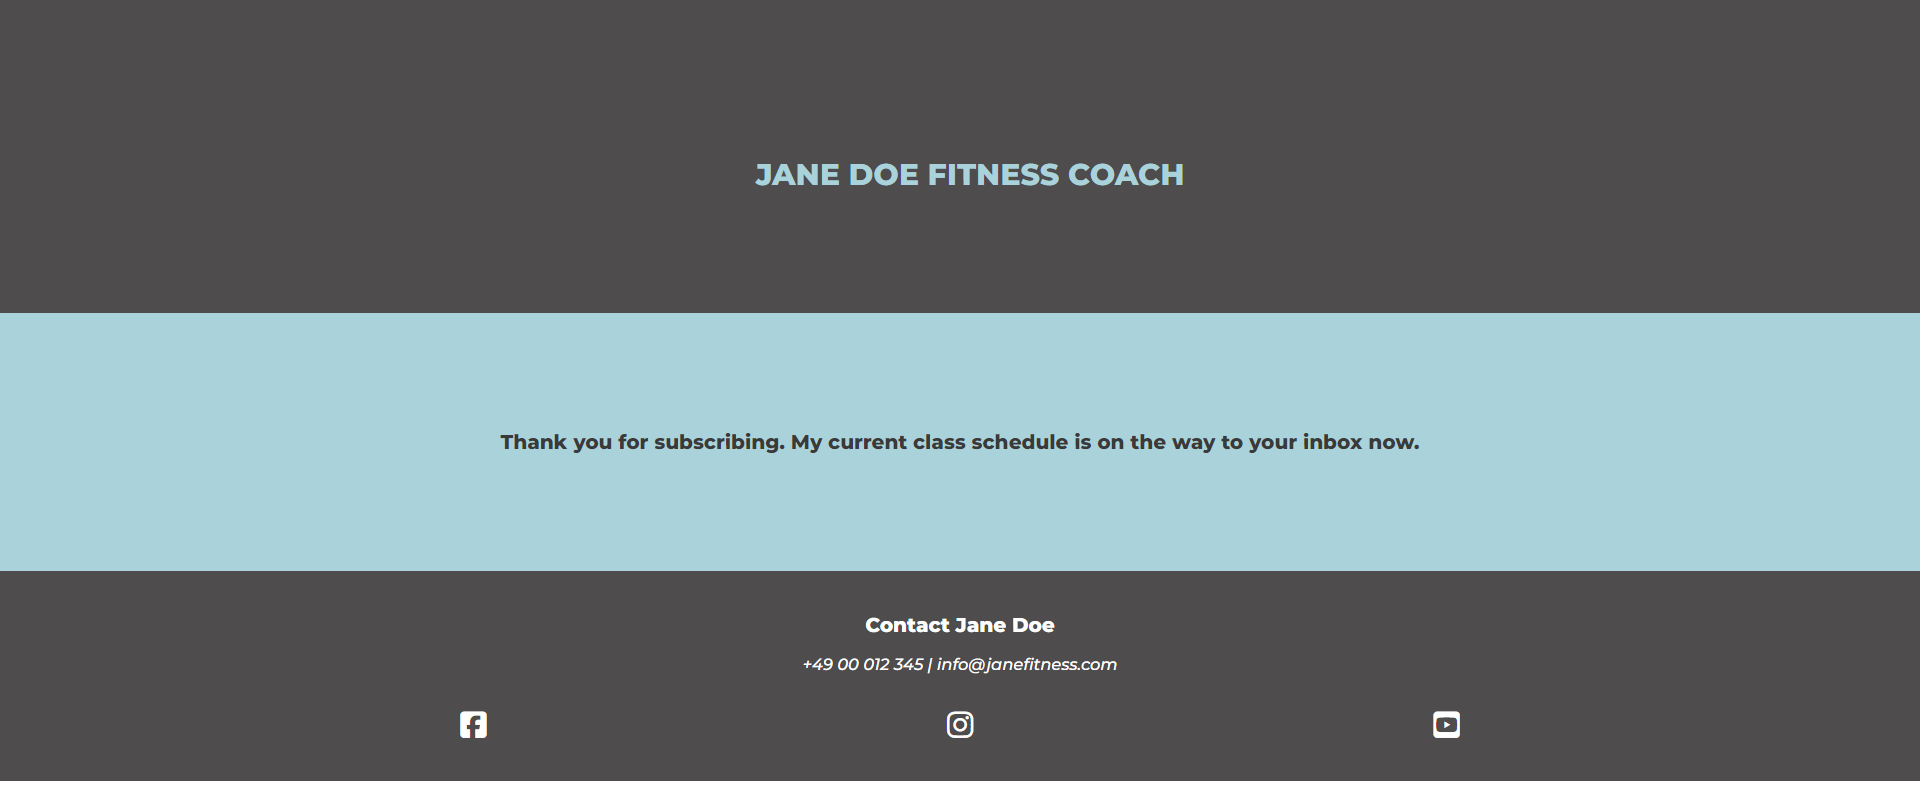
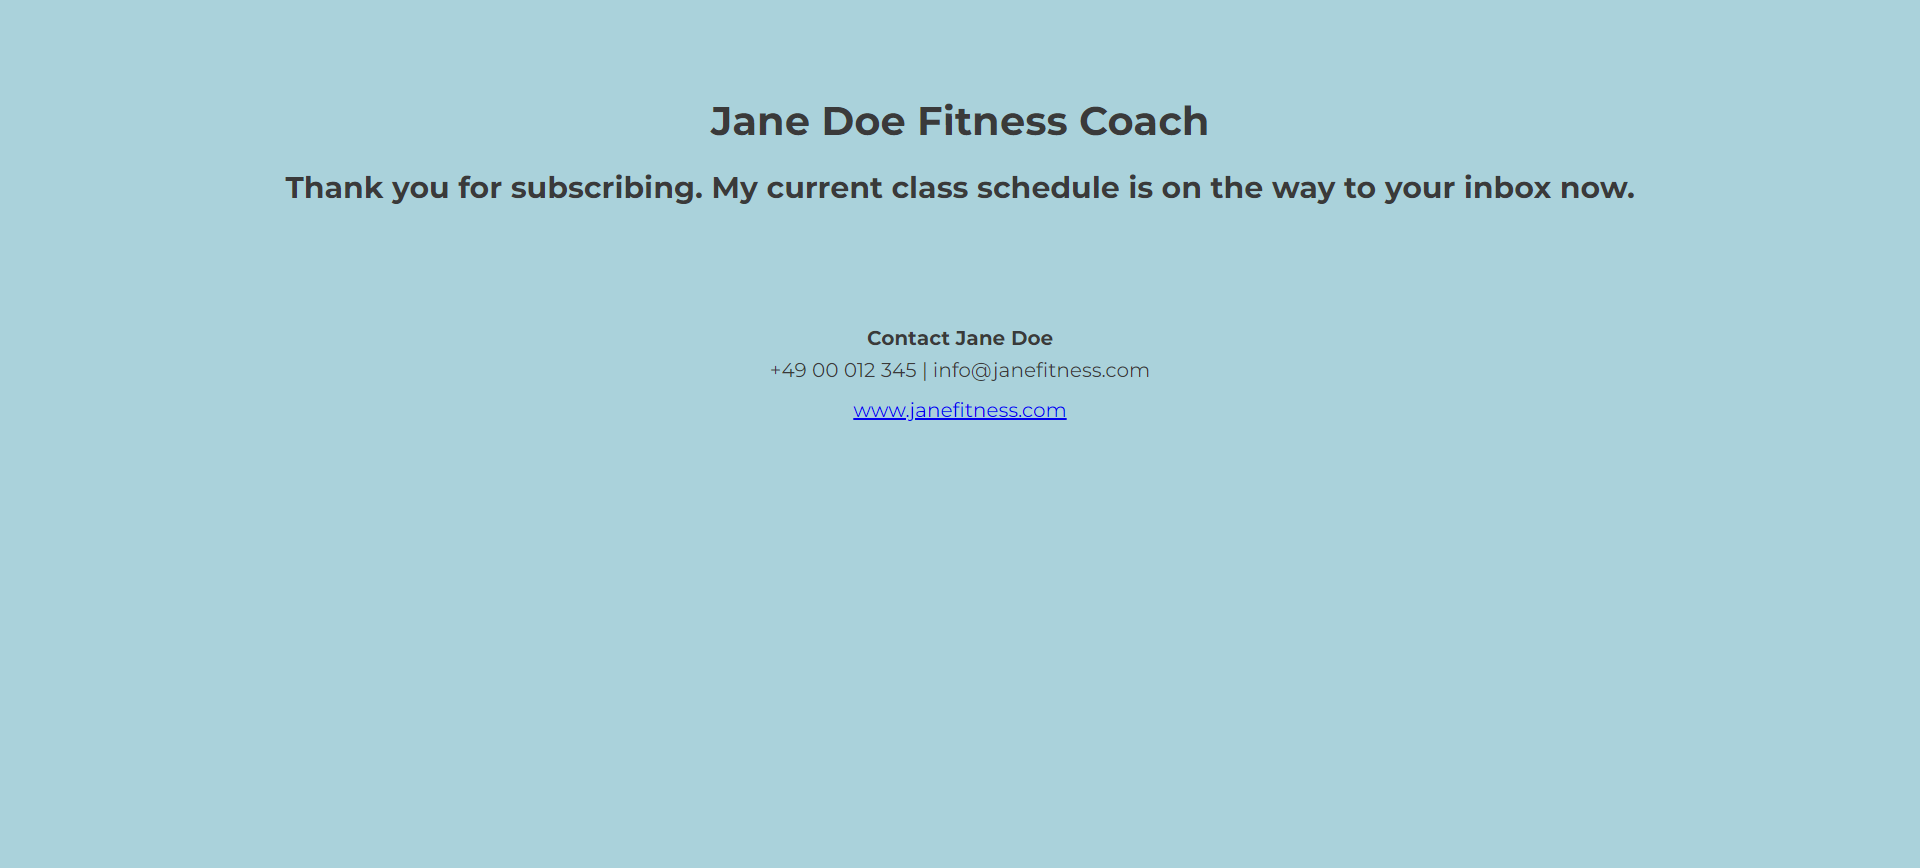
Add new screenshots of thank you page to README and correct spelling errors on README

diff --git a/README.md b/README.md
@@ -1,10 +1,12 @@
 # Jane Doe Fitness Coach
-Jane Doe Fitness Coach is the professional page for a person named Jane Doe and she is a Fitness Coach.  The site is targeted to pople in the Munich area that are looking for a peronal fitness coach or to join group classes that take place in the Munich area. For Jane Doe, the goal of the page is to collect email addresses so she can grow her email list.  This way she can send monthly updates to her email subscribers with her updated schedule and additional information about her classes. 
+Jane Doe Fitness Coach is the professional page for a person named Jane Doe and she is a Fitness Coach.  The site is targeted to people in the Munich area that are looking for a personal fitness coach or to join group classes that take place in the Munich area. For Jane Doe, the goal of the page is to collect email addresses so she can grow her email list.  This way she can send monthly updates to her email subscribers with her updated schedule and additional information about her classes. 
 ## Mockups
-![screenshot](readme-images/mockup-jane-doe-fitness-coach.png)
+| Home Page | Thank You Page |
+| --------- | -------------- |
+| ![screenshot](readme-images/mockup-jane-doe-fitness-coach.png) | ![screenshot](readme-images/mockup-thank-you-page.png) |
 
 ## UX
-The goal of Jane Doe Fitness Coach is to add people to her email address list so more people know about her classes. It was designed to be easy to navigate and to provide users general information about Jane, and the opportunity to sign up for the email list ao they can be informed about her classes on a monthly basis.  The look is soft and simple so users are not intimidated and to convey Jane's personality and the idea that fitness is for everyone. The site is responsive, so it is easy to follow on all screen sizes.  
+The goal of Jane Doe Fitness Coach is to add people to her email address list so more people know about her classes. It was designed to be easy to navigate and to provide users with general information about Jane, and the opportunity to sign up for the email list so they can be informed about her classes on a monthly basis.  The look is soft and simple, so users are not intimidated and to convey Jane's personality and the idea that fitness is for everyone. The site is responsive, so it is easy to follow on all screen sizes.  
 
 ## Color Scheme
 The color scheme for Jane Doe Fitness Coach is welcoming and on the soft side so that users of any age or sex will feel welcome at the site.
@@ -17,9 +19,9 @@ The color scheme for Jane Doe Fitness Coach is welcoming and on the soft side so
 Jane Doe Fitness Coach uses one font, Montserrat, utilizing Montserrat bold for the heading text and Montserrat normal for the paragraph text.  
 ## User Stories 
 ### New Users
-As a new user I would come to Jane Doe Fitness Coach either by a google search or a link from a gym or fitness center where Jane Doe is an instructor.  I want to find infomation about Jane's background as an instructor and I want to find out where, when and what she teaches. 
+As a new user I would come to Jane Doe Fitness Coach either by a google search or a link from a gym or fitness center where Jane Doe is an instructor.  I want to find information about Jane's background as an instructor and I want to find out where, when and what she teaches. 
 ### Returning Users
-Once a user signs up for Jane's mailing list there isn't really a reason to keep coming back to the site however in future, Jane may add a blog and the user may be enticed back to read her blog via an email from Jane.
+Once a user signs up for Jane's mailing list there isn't really a reason to keep coming back to the site however, in future, Jane may add a blog and the user may be enticed back to read her blog via an email from Jane.
 ## Wireframes
 | Mobile Wireframe | Tablet Wireframe | Desktop Wireframe |
 | ---------------- | ---------------- | ----------------- |
@@ -28,19 +30,19 @@ Once a user signs up for Jane's mailing list there isn't really a reason to keep
 ### Existing
 | Feature | Description | Screenshot mobile | Screenshot larger screens |
 |-------- | ----------- | ---------- | ---------- |
-| Header and Navigation | The fully responsive navigation bar includes links to the Home, About Jane, Sign-Up and Contact sections of the one page site.  On mobile, the navigation is vertical on the left side of the screen and from screen sizes 576 and greater, it is centered on the page under title with extra space around each element. | ![screenshot](readme-images/navigation-mobile.png) | ![screenshot](readme-images/navigation-576-and-greater.png) |
-|Introduction of Main Section | The introduction section is designed with a headshot image of Jane and short description about her. It is designed to draw users in and not overwhelm with too much information at once. This section is fully responsve to look appealing on all screen sizes. | ![screenshot](readme-images/intro-section-mobile.png) | ![screenshot](readme-images/intro-section-578-and-greater.png) 
+| Header and Navigation | The fully responsive navigation bar includes links to the Home, About Jane, Sign-Up and Contact sections of the one-page site.  On mobile, the navigation is vertical on the left side of the screen and from screen sizes 576 and greater, it is centered on the page under title with extra space around each element. | ![screenshot](readme-images/navigation-mobile.png) | ![screenshot](readme-images/navigation-576-and-greater.png) |
+|Introduction of Main Section | The introduction section is designed with a headshot image of Jane and short description about her. It is designed to draw users in and not overwhelm them with too much information at once. This section is fully responsive to look appealing on all screen sizes. | ![screenshot](readme-images/intro-section-mobile.png) | ![screenshot](readme-images/intro-section-578-and-greater.png) 
 | About Jane section | This section offers more information about Jane and the services that she provides as a fitness coach.  There is another image of Jane, this time training people. The background of this section is white, making the page visually appealing. The section is fully responsive, the image is quite small on mobile so the user can easily scroll to the information, on tablets and desktop, the image is bigger with the information placed on its left. | ![screenshot](readme-images/about-jane-section-mobile.png) | ![screenshot](readme-images/about-jane-section-578-and-greater.png) |
-| Sign-Up Form section | This section has a sign-up form that users are asked to fill in their first name, last name and email address so they can join Jane's email list at Mailchimp.  Jane will then send once monthly emails with her updated schedule since it changes quite often. This section is responsive and is easy to read on all screen sizes. | ![screenshot](readme-images/sign-up-form-section-mobile.png) | ![screenshot](readme-images/sign-up-form-section-larger-screens.png) |
+| Sign-Up Form section | This section has a sign-up form that users are asked to fill in their first name, last name and email address so they can join Jane's email list at Mailchimp.  Jane will then send emails once monthly with her updated schedule since it changes quite often. This section is responsive and is easy to read on all screen sizes. | ![screenshot](readme-images/sign-up-form-section-mobile.png) | ![screenshot](readme-images/sign-up-form-section-larger-screens.png) |
 | Footer section | The footer section delivers contact information, phone, email address then icons with links to social networks. The color of the text and icons is white against the dark gray background, making it easy to see and aesthetically pleasing. This section is responsive and easy to read on all screen sizes. | ![screenshot](readme-images/footer-section-mobile.png) | ![screenshot](readme-images/footer-section-larger-screens.png) |
- Thank You page | From the sign-up form, when users enter their name and email address and click on the submit button, they will go to a thank you page that opens in a new window so they don't have to click to go back to the original site. | ![screenshot](readme-images/thank-you-page-mobile.png) | ![screenshot](readme-images/thank-you-page-desktop.png) |  
+ Thank You page | From the sign-up form, when users enter their name and email address and click on the submit button, they will go to a thank you page that opens in a new window, so they don't have to click to go back to the original site. | ![screenshot](readme-images/thank-you-page-mobile.png) | ![screenshot](readme-images/thank-you-page-desktop.png) |  
 
 ### Future Features
 Jane Doe Fitness Coach has room to grow and some future features that could enhance the site for both the organizer and the user are:
 * Make the Header sticky so navigation will show when scrolling
 * Gallery -- a gallery would give the users a better feel for what working out with Jane is really like and who attends her classes
-* Details of different classes -- it would be helful for the users to be able to read about the different classes in case they are not familiar with them
-* Blog -- a blog would give users a reasons to come back to the site again and again
+* Details of different classes -- it would be helpful for the users to be able to read about the different classes in case they are not familiar with them
+* Blog -- a blog would give users a reason to come back to the site again and again
 * Post Current Schedule -- Jane Doe could post her current schedule on her website but this might discourage users from signing up to her email list
 
 ## Tools and Technologies Used
@@ -49,17 +51,17 @@ Jane Doe Fitness Coach has room to grow and some future features that could enha
 * CSS used to style the design of the main site
 * CSS Flexbox used on the page layout and to create responsiveness over different screensizes
 * Github used to store code online
-* Gitpod used for IDE (develpment environment)
-* FontAwesome.com used for social incons
+* Gitpod used for IDE (development environment)
+* FontAwesome.com used for social icons
 * Canva.com used to create the favicon for Jane Doe Fitness Coach
 * Google Fonts used to add Montserrat font to Jane Doe Fitness Coach
 
 ## Testing
 ### Manual
 Manual testing was performed on these aspects of Jane Doe Fitness Coach
-* Links - do the links deliver the user where they should?, do links to social networks open in a new window?
-* Responsiveness - is the site visually pleasing on all screen sizes?
-* Forms - do the forms function as planned?
+* Links - links deliver where they should and social networks open in a new window
+* Responsiveness - the site is visually pleasing on all screen sizes
+* Form - the form functions and on submission the user is taken to a thank you page opening in a new window with a link back to the home page
 
 ### Validator Testing
 
@@ -68,6 +70,7 @@ Manual testing was performed on these aspects of Jane Doe Fitness Coach
 | index.html | HTML |[The W3 Markup Validation Service](https://validator.w3.org/) | No errors found. |
 | thankyou.htlm | HTML |[The W3 Markup Validation Service](https://validator.w3.org/) | No errors found. |
 | style.css | CSS | [The W3 CSS Validation Service](https://jigsaw.w3.org/css-validator/) | No errors found. |
+| ty-style.css | CSS | [The W3 CSS Validation Service](https://jigsaw.w3.org/css-validator/) | No errors found. |
 
 
 ## Unfixed Bugs
@@ -94,7 +97,8 @@ The following are sources of information used in building Jane Doe Fitness Coach
 | [Freepik.com](https://www.freepik.com/free-photo/fitness-woman-workout_7135725.htm#fromView=search&page=1&position=50&uuid=dc72e9bc-7936-40af-8fe1-e4e2d880d947) | Intro section | Image |
 | [Freepik.com](https://www.freepik.com/free-photo/women-working-out-with-trainer_6265274.htm#fromView=search&page=1&position=31&uuid=74944cf4-5462-46d6-a2be-f4b4b246a365) | About Jane section | Image |
 | [Webdev Simplified](https://youtu.be/fYq5PXgSsbE?si=T-L7xfA9toAmR3PZ) | Main section | Flexbox |
-| [CSS-Tricks](https://css-tricks.com/snippets/css/a-guide-to-flexbox/#aa-background) | Main Section | Flexbox |
+| [CSS-Tricks](https://css-tricks.com/snippets/css/a-guide-to-flexbox/#aa-background) | Main Section and Thank You page | Flexbox |
+| [W3 Schools](https://www.w3schools.com/howto/howto_css_center-vertical.asp) | Thank You page | Flex Styling |
 | [Divya Thakur](https://www.youtube.com/watch?v=MCo1UtflJHM) | README | General How-To Information |
 | [Github](https://docs.github.com/en/get-started/writing-on-github/getting-started-with-writing-and-formatting-on-github/basic-writing-and-formatting-syntax#links) | README | Basic Formatting Syntax |
 | [Github](https://docs.github.com/en/get-started/writing-on-github/working-with-advanced-formatting/organizing-information-with-tables) | README | Organized Data with Tables |
